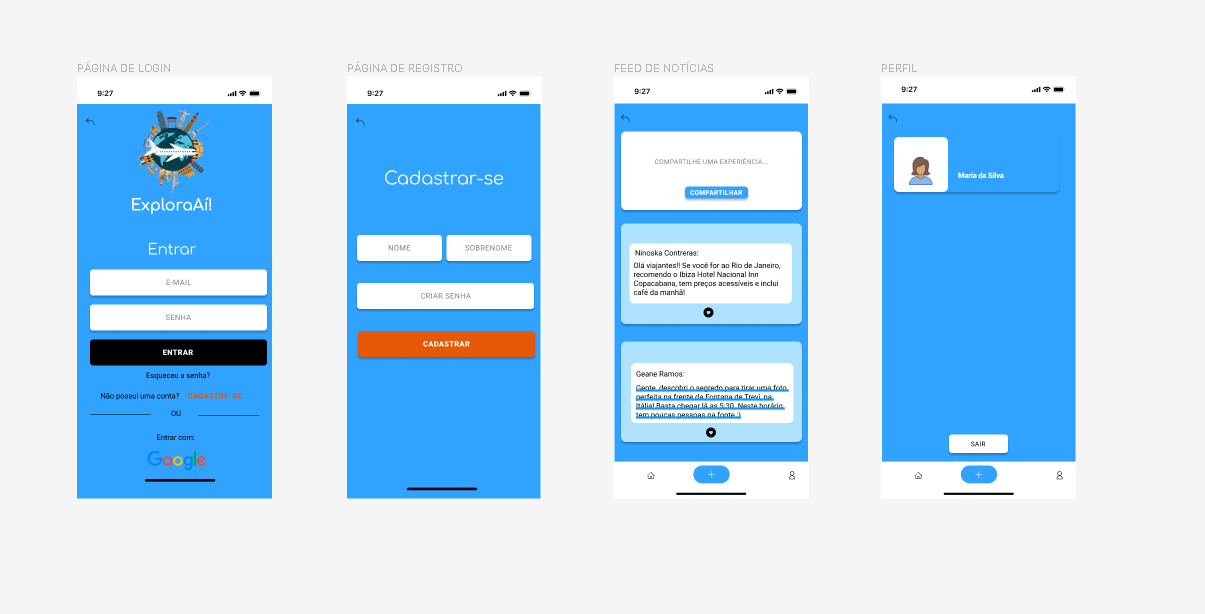
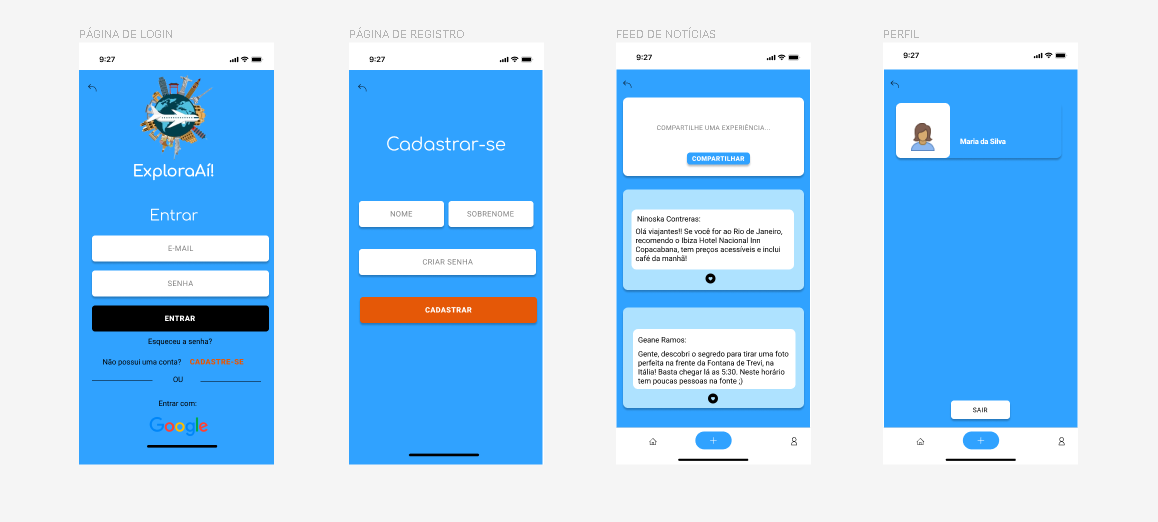
melhoria na qualidade da imagem

Changed region(s): [[0.4974, 0.0613, 0.9326, 0.8889], [0.0622, 0.0613, 0.2487, 0.8889], [0.2798, 0.0613, 0.4663, 0.8889]]

diff --git a/README.md b/README.md
@@ -63,10 +63,8 @@ Versão desktop:
 ### 3.2 Protótipos de alta fidelidade:
 
 Versão mobile:
-
-Acesse [aqui](https://www.figma.com/proto/8hKLQYcc6QPfRtdsGxTv9T/Social-Network?type=design&node-id=51-165&scaling=scale-down&page-id=0%3A1&starting-point-node-id=51%3A165&show-proto-sidebar=1) 
-<img src = "src/img/Prot%C3%B3tipo%20de%20alta%20fidelidade%20vers%C3%A3o%20mobile.PNG" />
-Versão desktop:
+Acesse [aqui](https://www.figma.com/proto/8hKLQYcc6QPfRtdsGxTv9T/Social-Network?type=design&node-id=51-165&scaling=scale-down&page-id=0%3A1&starting-point-node-id=51%3A165&show-proto-sidebar=1)
+<img src =src/img/Prot%C3%B3tipo%20de%20alta%20fidelidade%20vers%C3%A3o%20mobile.PNG/>
 
 Acesse [aqui](https://www.figma.com/proto/8hKLQYcc6QPfRtdsGxTv9T/Social-Network?type=design&node-id=288-783&scaling=scale-down&page-id=51%3A523&starting-point-node-id=288%3A783&show-proto-sidebar=1)
 <img src = "src/img/Prot%C3%B3tipo%20de%20alta%20fidelidade%20vers%C3%A3o%20desktop.PNG"/>
